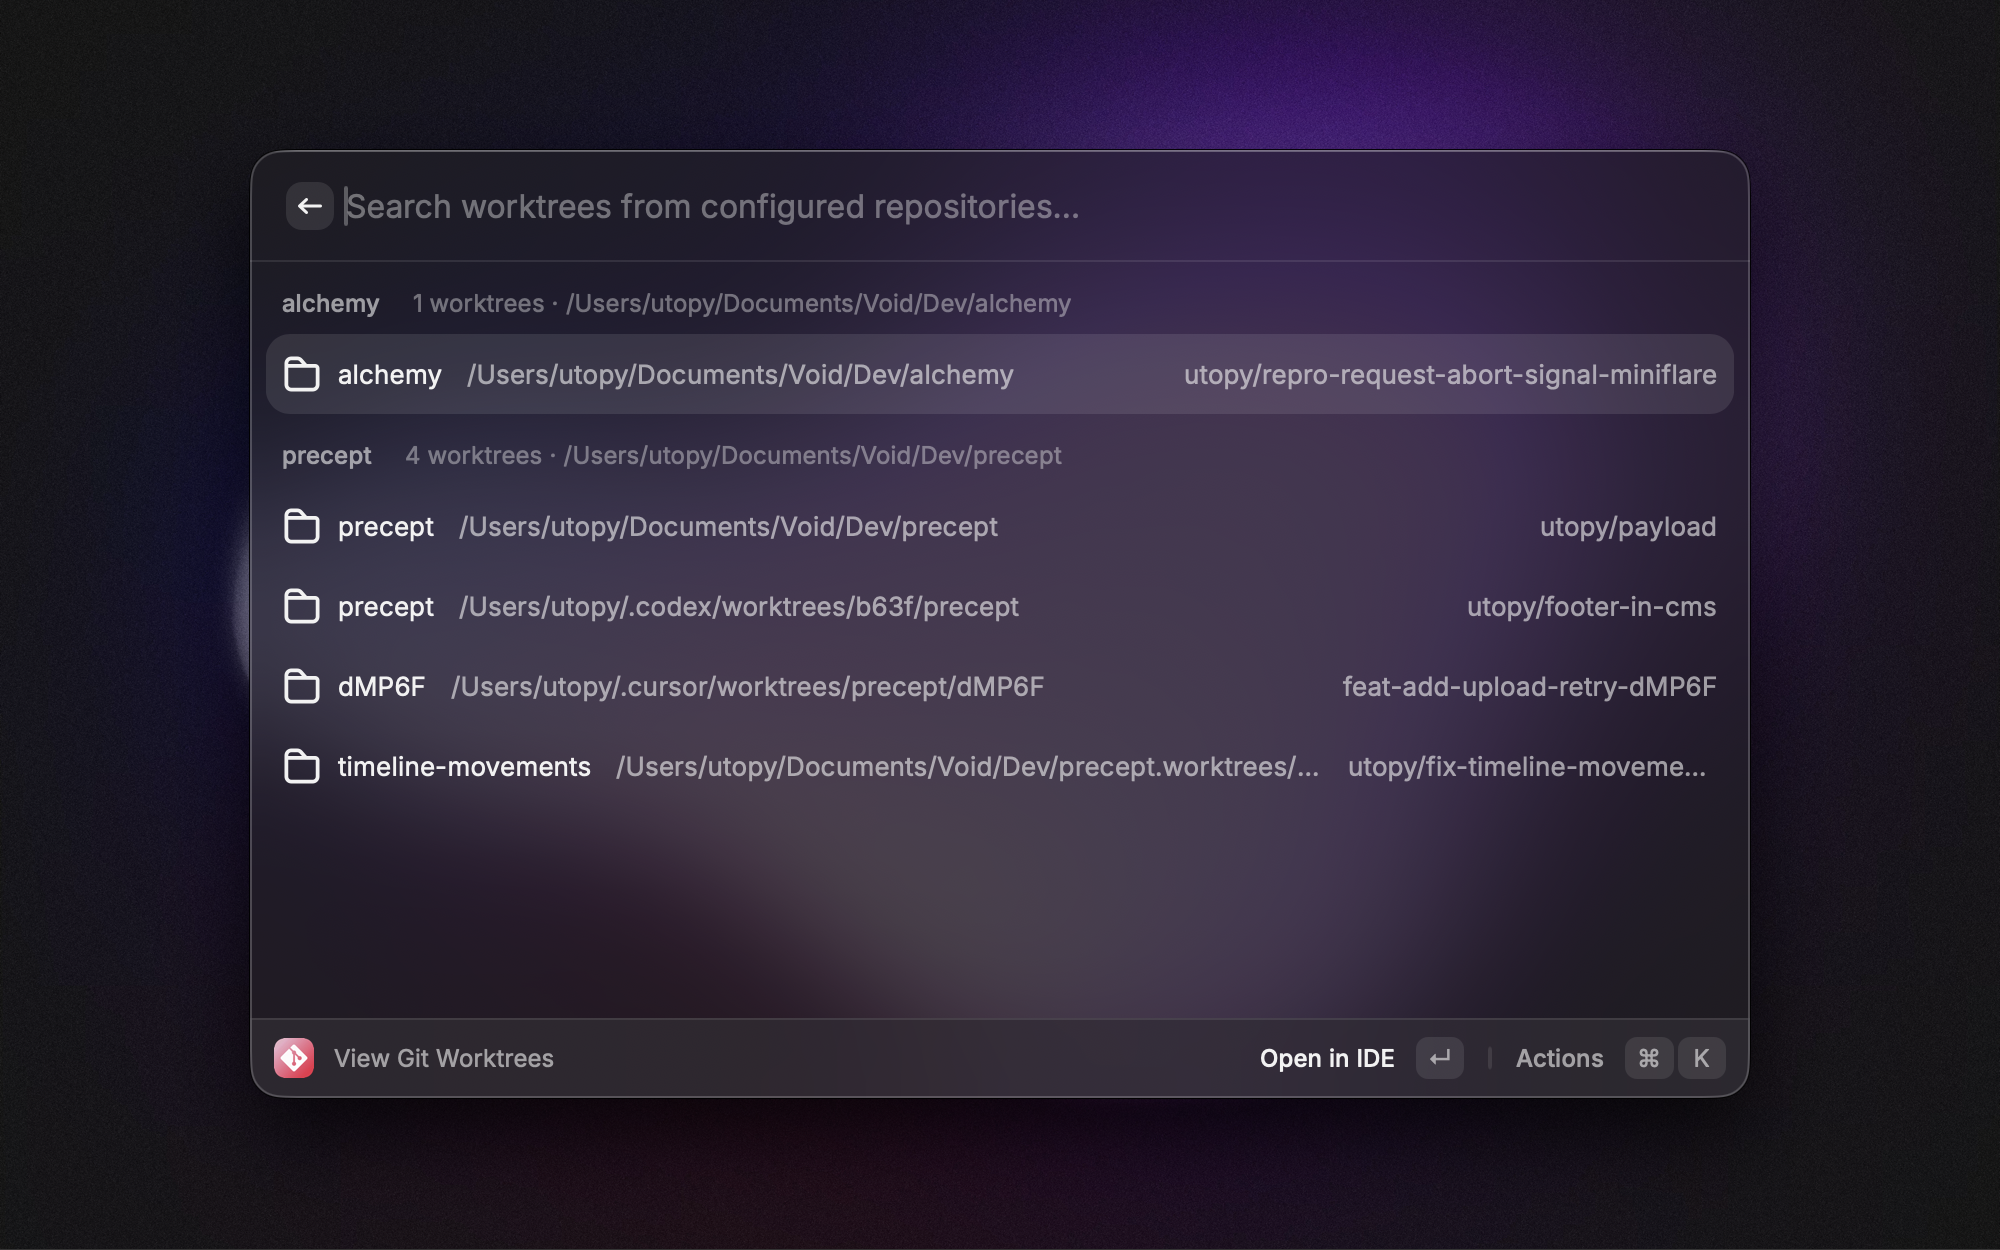
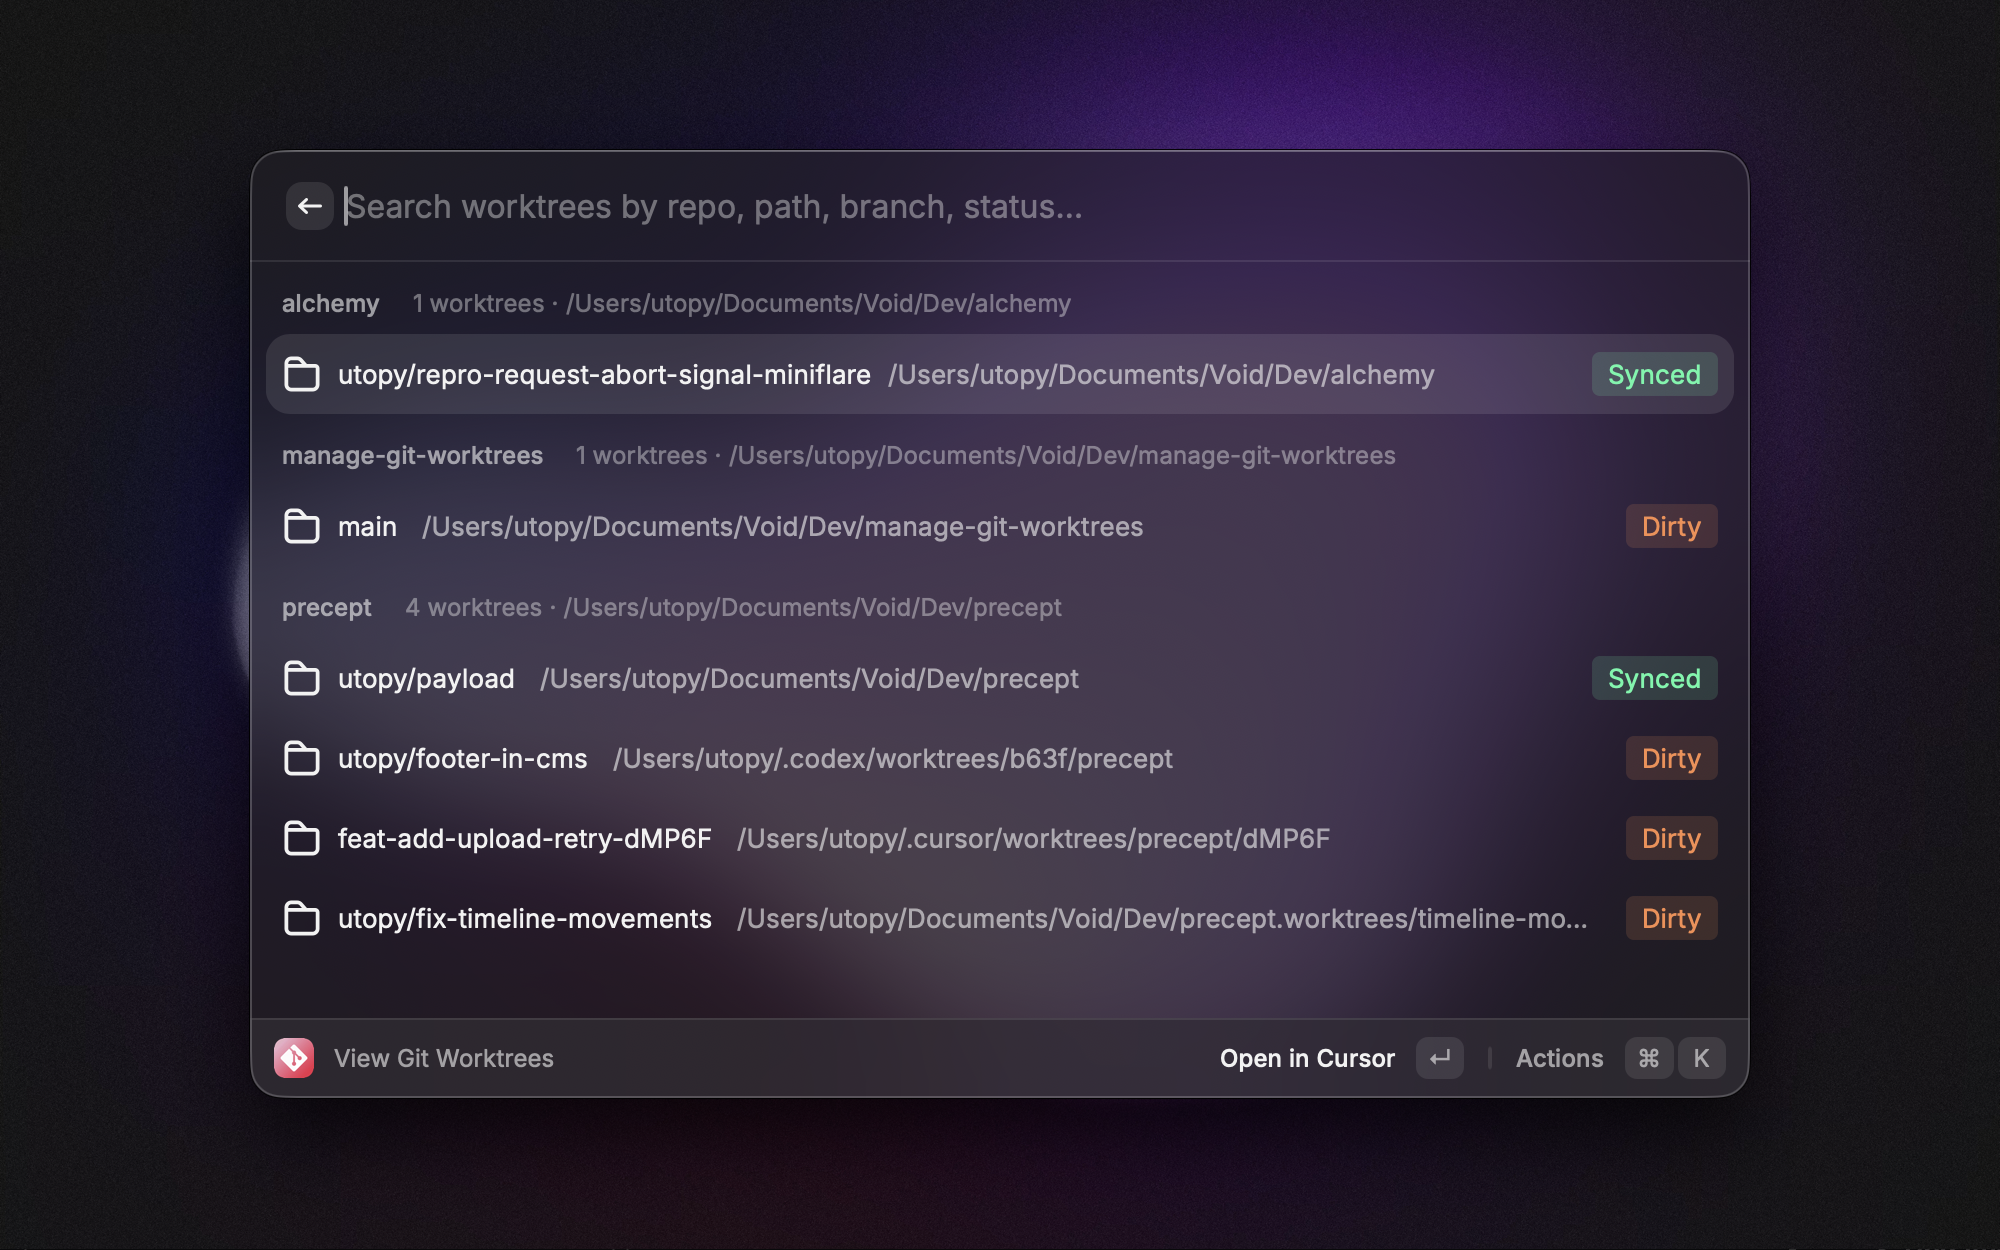
feat(view): add worktree status, enhance search

diff --git a/src/view-worktrees.tsx b/src/view-worktrees.tsx
@@ -2,6 +2,7 @@ import {
   Action,
   ActionPanel,
   Application,
+  Color,
   Icon,
   List,
   getPreferenceValues,
@@ -14,6 +15,7 @@ import { stat } from "node:fs/promises";
 import os from "node:os";
 import path from "node:path";
 import { promisify } from "node:util";
+import { useState } from "react";
 
 const execFileAsync = promisify(execFile);
 
@@ -29,10 +31,13 @@ type InvalidRepo = {
   reason: string;
 };
 
+type WorktreeStatus = "synced" | "clean" | "dirty";
+
 type Worktree = {
   path: string;
   branch?: string;
   detached: boolean;
+  status: WorktreeStatus;
 };
 
 type RepoWorktrees = {
@@ -94,6 +99,7 @@ function parseWorktreeListOutput(stdout: string): Worktree[] {
           path: current.path,
           branch: current.branch,
           detached: current.detached ?? false,
+          status: "clean",
         });
       }
 
@@ -120,15 +126,49 @@ function parseWorktreeListOutput(stdout: string): Worktree[] {
       path: current.path,
       branch: current.branch,
       detached: current.detached ?? false,
+      status: "clean",
     });
   }
 
   return worktrees;
 }
 
+async function getWorktreeStatus(worktreePath: string): Promise<WorktreeStatus> {
+  const { stdout: porcelain } = await execFileAsync("git", ["-C", worktreePath, "status", "--porcelain"]);
+  if (porcelain.trim().length > 0) {
+    return "dirty";
+  }
+
+  try {
+    const { stdout: revList } = await execFileAsync("git", [
+      "-C",
+      worktreePath,
+      "rev-list",
+      "--left-right",
+      "--count",
+      "HEAD...@{upstream}",
+    ]);
+    const [ahead, behind] = revList.trim().split(/\s+/).map(Number);
+    if (ahead === 0 && behind === 0) {
+      return "synced";
+    }
+    return "clean";
+  } catch {
+    // No upstream configured — can't determine sync status
+    return "clean";
+  }
+}
+
 async function getRepoWorktrees(repoPath: string): Promise<Worktree[]> {
   const { stdout } = await execFileAsync("git", ["-C", repoPath, "worktree", "list", "--porcelain"]);
-  return parseWorktreeListOutput(stdout);
+  const worktrees = parseWorktreeListOutput(stdout);
+
+  return Promise.all(
+    worktrees.map(async (wt) => ({
+      ...wt,
+      status: await getWorktreeStatus(wt.path),
+    })),
+  );
 }
 
 async function scanWorktrees(rawRepos: string): Promise<WorktreeScanResult> {
@@ -180,12 +220,42 @@ async function scanWorktrees(rawRepos: string): Promise<WorktreeScanResult> {
 export default function Command() {
   const preferences = getPreferenceValues<Preferences>();
   const { data, isLoading } = usePromise(scanWorktrees, [preferences.repositories]);
+  const [searchText, setSearchText] = useState("");
+
+  const filteredRepos =
+    data?.repos.flatMap((repo) => {
+      const repoMatches = repo.name.toLowerCase().includes(searchText.toLowerCase());
+      const worktreeMatches = repo.worktrees.filter(
+        (worktree) =>
+          worktree.path.toLowerCase().includes(searchText.toLowerCase()) ||
+          worktree.branch?.toLowerCase().includes(searchText.toLowerCase()) ||
+          worktree.status.toLowerCase().includes(searchText.toLowerCase()),
+      );
+
+      if (repoMatches) {
+        return repo;
+      }
+
+      if (worktreeMatches.length > 0) {
+        return {
+          ...repo,
+          worktrees: worktreeMatches,
+        };
+      }
+
+      return [];
+    }) ?? [];
 
   const ide = preferences.defaultIDE;
   const terminal = preferences.defaultTerminal;
 
   return (
-    <List isLoading={isLoading} searchBarPlaceholder="Search worktrees from configured repositories">
+    <List
+      isLoading={isLoading}
+      searchBarPlaceholder="Search worktrees by repo, path, branch, status"
+      searchText={searchText}
+      onSearchTextChange={setSearchText}
+    >
       {data?.invalidRepos.length ? (
         <List.Section title="Invalid repositories">
           {data.invalidRepos.map((invalidRepo) => (
@@ -204,16 +274,27 @@ export default function Command() {
           ))}
         </List.Section>
       ) : null}
-
-      {data?.repos.map((repo) => (
+      {filteredRepos.map((repo) => (
         <List.Section key={repo.path} title={repo.name} subtitle={`${repo.worktrees.length} worktrees · ${repo.path}`}>
           {repo.worktrees.map((worktree) => (
             <List.Item
               key={worktree.path}
               icon={Icon.Folder}
-              title={path.basename(worktree.path)}
+              title={worktree.detached ? "Detached" : (worktree.branch ?? "unknown")}
               subtitle={worktree.path}
-              accessories={[{ text: worktree.detached ? "detached" : (worktree.branch ?? "unknown") }]}
+              accessories={[
+                {
+                  tag: {
+                    value: capitalize(worktree.status),
+                    color:
+                      worktree.status === "synced"
+                        ? Color.Green
+                        : worktree.status === "clean"
+                          ? Color.Blue
+                          : Color.Orange,
+                  },
+                },
+              ]}
               actions={
                 <ActionPanel>
                   <Action
@@ -244,3 +325,5 @@ export default function Command() {
     </List>
   );
 }
+
+const capitalize = (str: string) => str.charAt(0).toUpperCase() + str.slice(1);
